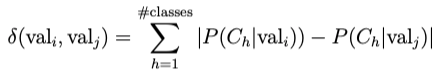
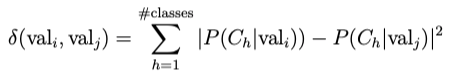
fixed 1-d issue

diff --git a/vdm3/vdm.py b/vdm3/vdm.py
@@ -53,12 +53,8 @@ class ValueDifferenceMetric:
 
         def one_prob(val):
             val_arr = np.array(y)[x == val]
-            count = np.unique(val_arr, return_counts=True)
-            if all(count[0] == np.unique(y)):
-                return count[1]/sum(count[1])
-            else:
-                new_count = np.array([list(val_arr).count(i) for i in np.unique(y)])
-                return new_count/sum(new_count)
+            new_count = np.array([list(val_arr).count(i) for i in np.unique(y)])
+            return new_count/sum(new_count)
 
         unique_x = np.unique(x)
         cond_prob = {i:j for i,j in zip(unique_x, np.array([one_prob(i) for i in unique_x]))}
@@ -118,7 +114,7 @@ class ValueDifferenceMetric:
             else:
                 pass
             
-        dist_pat = list(zip(point1, point2))
+        dist_pat = [tuple(sorted(i)) for i in zip(point1, point2)]
         try:
             vdm_dist = list(self.all_pairs.values())
         except:
@@ -133,7 +129,7 @@ class ValueDifferenceMetric:
             else:
                 pass
 
-        result_dist = [vdm_dist[i].get(tuple(sorted(dist_pat[i]))) for i in range(len(dist_pat))]
+        result_dist = [vdm_dist[i].get(dist_pat[i]) for i in range(len(dist_pat))]
         var_dist = np.array([i if i != None else 0 for i in result_dist])
-        dist = np.sqrt(np.sum(var_dist))
+        dist = np.sqrt(np.sum(var_dist**2))
         return dist

diff --git a/tests/test_pack.py b/tests/test_pack.py
@@ -196,4 +196,15 @@ def test_one_dim_array_pd():
     test = ValueDifferenceMetric(X2,y1)
     test.vdm_pairs_fit()
     assert isinstance(test.get_points_distance('a','b'), (float, int))
-    assert test.get_points_distance('a','a') == 0 
+    assert test.get_points_distance('a','a') == 0
+
+def test_special_case():
+    specx = np.array(['White','Red','Black','Red','Red','White'])
+    specy = np.array([0,1,1,2,2,0])
+    test = ValueDifferenceMetric(specx, specy)
+    test.vdm_pairs_fit()
+    assert test.get_points_distance(['White'],['Black'])
+    assert isinstance(test.get_points_distance(['White'],['Black']), (float, int))
+    assert round(test.get_points_distance(['White'],['Red']), 3) == 1.556 
+    with pytest.raises(ValueError):
+        assert test.get_points_distance(['White'],['Pink'])

diff --git a/setup.py b/setup.py
@@ -7,7 +7,7 @@ with open('README.md') as f:
 setup(
   name = 'vdm3',
   packages = ['vdm3'],
-  version = '0.1.4',
+  version = '0.1.5',
   license='MIT',
   description = 'Use Value Difference Metric to find distance between categorical features.',
   long_description=long_description,
@@ -15,7 +15,7 @@ setup(
   author = 'Esmond Chu',
   author_email = 'chuhke@gmail.com',
   url = 'https://github.com/esmondhkchu/vdm3',
-  download_url = 'https://github.com/esmondhkchu/vdm3/archive/v_0.1.4.tar.gz',
+  download_url = 'https://github.com/esmondhkchu/vdm3/archive/v_0.1.5.tar.gz',
   keywords = ['statistics', 'machine learning', 'distance'],
   test_suite = 'tests',
   install_requires=['numpy','pandas'],
